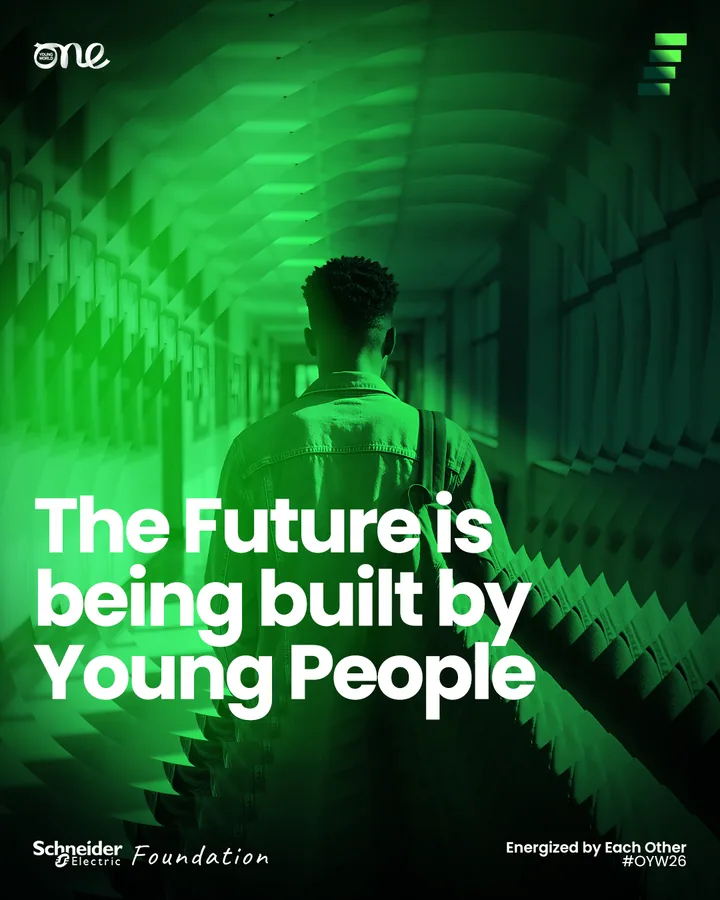
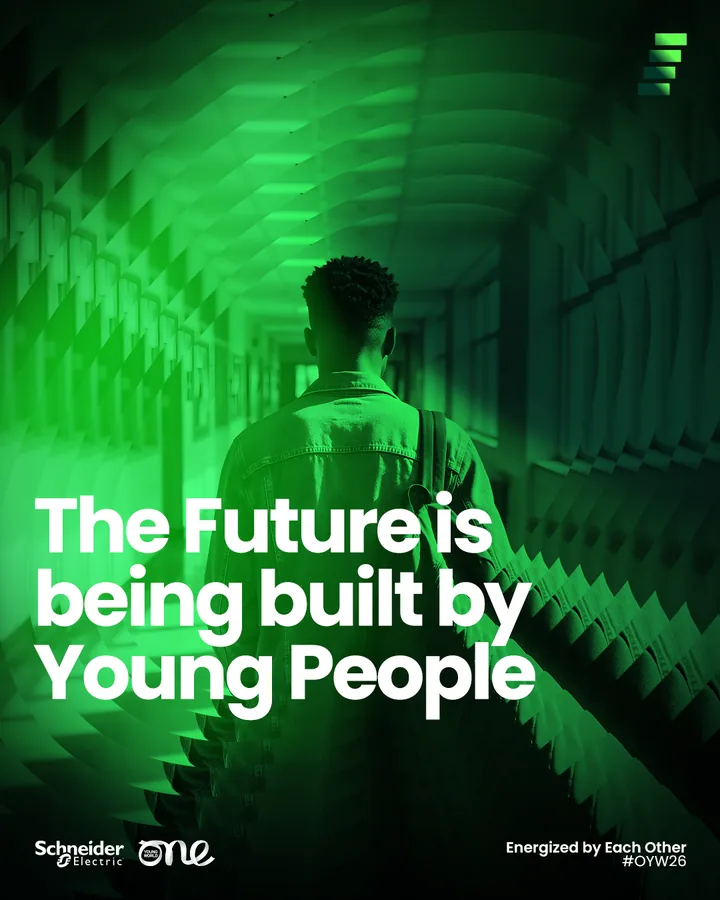
Posts: 14 Oct afternoon upload — core posts for the Schneider side only
The client re-uploaded the folder with one rule change and one lockup
change: the four campaign core posts are no longer shown to the Foundation
delegates (manifest routing, README and caption headers all say so), and
the four core visuals now carry the Schneider Electric × One Young World
lockup instead of the Foundation one. Everything else is byte-identical.
Delegates' calendar file drops the core dates. 212/212 caption strings
verbatim. Cache version 20261014d.

Changed region(s): [[0.0306, 0.9333, 0.3667, 0.9644], [0.0306, 0.0311, 0.1528, 0.0933]]

diff --git a/js/posts.js b/js/posts.js
@@ -240,7 +240,7 @@
     if (els.tabPosts) els.tabPosts.lastChild.textContent = ex || dl ? 'Your posts' : sp ? 'Speakers' : 'Posts';
     renderPosts();
     if (announce) {
-      const where = sp ? 'Your Meet the Speakers post and the campaign posts are in the Speakers tab' : dl ? 'Your six posts and the campaign posts are in the Your posts tab' : 'Your posts are in the Posts tab';
+      const where = sp ? 'Your Meet the Speakers post and the campaign posts are in the Speakers tab' : dl ? 'Your six posts are in the Your posts tab' : 'Your posts are in the Posts tab';
       toast(`Welcome${first ? ', ' + first : ''}. ${where}${filled ? `, and your ${filled} ${filled === 'name and email' ? 'are' : 'is'} already in the Email signature tab` : ''}.`, 4800);
       if (MODE !== 'live' && OYW.showTab) OYW.showTab('posts', true);   // live: stay on the first tab
     }
@@ -257,7 +257,7 @@
     els.panel.innerHTML = '';
     const ex = explorerOf(audience), sp = speakerOf(audience), dl = delegateOf(audience);
     if (sp) renderSpeaker(sp); else if (ex) renderExplorer(ex); else if (dl) renderDelegate(dl); else renderSet(DATA.sets.graduates);
-    renderCore();   // the four campaign core posts go to everyone who signs in
+    if (!dl) renderCore();   // the four campaign core posts: the Schneider side only, not the Foundation delegates (manifest, 14 Oct pm)
   }
 
   // ---------------------------------------------------------------- campaign core posts (everyone)
@@ -266,8 +266,8 @@
     if (!posts.length) return;
     const sec = document.createElement('section');
     sec.className = 'post-list core';
-    sec.innerHTML = `<h2 class="list-title"><span class="num">+</span> Campaign posts, for everyone</h2>
-      <p class="fine top">Four posts every signed-in person shares, ${fmtDay(posts[0].windowStart)} to ${fmtDay(posts[posts.length - 1].windowEnd)}, one a day in this order. The captions are final: post them as they are.</p>`;
+    sec.innerHTML = `<h2 class="list-title"><span class="num">+</span> Campaign posts, for everyone at Schneider Electric</h2>
+      <p class="fine top">Four posts the whole Schneider Electric side shares, ${fmtDay(posts[0].windowStart)} to ${fmtDay(posts[posts.length - 1].windowEnd)}, one a day in this order. The captions are final: post them as they are.</p>`;
     posts.forEach((p, i) => sec.appendChild(postCard({ post: p, index: i, cards: p.langs.EN.cards, caption: p.langs.EN.caption, variantKey: 'EN', subline: 'Campaign post · everyone', alternatives: [] })));
     els.panel.appendChild(sec);
   }
@@ -279,7 +279,7 @@
     head.innerHTML = `<h2>Hi ${esc(dl.first)}, here are your posts</h2>
       <p class="lead">${dl.posts.length} posts as a Schneider Electric Foundation delegate${dl.institution ? ', ' + esc(dl.institution) : ''}: your announcement, one post on each Summit day and a reflection after. The announcement is ready to post. The four Live cards take your photo of the day and the Reflection card takes one line from you; both are finished right here on your device, and nothing is uploaded. Captions are starters: replace everything in [square brackets] with your own words.</p>`;
     els.panel.appendChild(head);
-    els.panel.appendChild(remindersCard(dl.posts.concat(corePosts()), dl.id));
+    els.panel.appendChild(remindersCard(dl.posts, dl.id));
     const list = document.createElement('section');
     list.className = 'post-list';
     list.innerHTML = `<h2 class="list-title"><span class="num">1</span> Your posts, in order</h2>`;

diff --git a/index.html b/index.html
@@ -11,7 +11,7 @@
   <meta property="og:type" content="website">
   <link rel="icon" href="assets/se-mark.svg" type="image/svg+xml">
   <link rel="preload" as="image" href="assets/frames/frame-bg-lossless.webp" type="image/webp">
-  <link rel="stylesheet" href="css/style.css?v=20261014c">
+  <link rel="stylesheet" href="css/style.css?v=20261014d">
 </head>
 <body>
 
@@ -298,10 +298,10 @@ Schneider Electric</pre>
 
   <div id="toast" class="toast" role="status" aria-live="polite"></div>
 
-  <script src="js/app.js?v=20261014c" defer></script>
-  <script src="js/signature.js?v=20261014c" defer></script>
-  <script src="js/toolkit.js?v=20261014c" defer></script>
-  <script src="js/editor.js?v=20261014c" defer></script>
-  <script src="js/posts.js?v=20261014c" defer></script>
+  <script src="js/app.js?v=20261014d" defer></script>
+  <script src="js/signature.js?v=20261014d" defer></script>
+  <script src="js/toolkit.js?v=20261014d" defer></script>
+  <script src="js/editor.js?v=20261014d" defer></script>
+  <script src="js/posts.js?v=20261014d" defer></script>
 </body>
 </html>

diff --git a/README.md b/README.md
@@ -51,8 +51,9 @@ listed in the client's `speakers_manifest.json`, checked before the main manifes
 tab with their single, undated "Meet the Speakers" post; Foundation delegates (ten sponsored
 students, `schneider_electric_foundation.delegates`) get their six posts and no signature tab:
 a finished Announcement (19 Oct), four Live cards (3 to 6 Nov, "on the day") and a Reflection card
-(from 7 Nov). Everyone who signs in also sees the four **campaign core posts** (19 to 23 Oct) at the
-bottom of the Posts tab. Captions for the Live and Reflection cards are starters with blanks in
+(from 7 Nov). Everyone on the Schneider side (employees, Explorers, speakers) also sees the four
+**campaign core posts** (19 to 23 Oct) at the bottom of the Posts tab; the Foundation delegates do
+not (manifest, 14 Oct afternoon). Captions for the Live and Reflection cards are starters with blanks in
 square brackets, shown as delivered and never pre-filled.
 
 Posting windows are enforced for employees and Explorers (including the core posts): a post opens on its planned date
